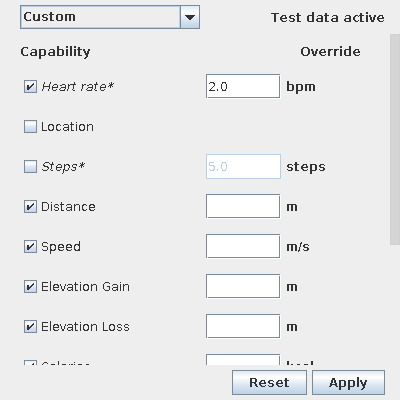
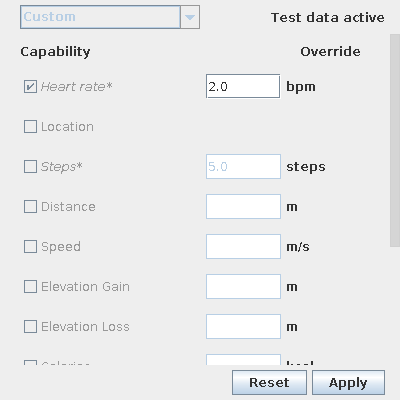
Disable dropdown during active exercise
Bug: 326056944
Test: Unit tests

GitOrigin-RevId: 677e4822b1b97f0de322416045bb717177dae5f6

diff --git a/wear-whs/src/com/android/tools/idea/wearwhs/view/WearHealthServicesToolWindow.kt b/wear-whs/src/com/android/tools/idea/wearwhs/view/WearHealthServicesToolWindow.kt
@@ -125,6 +125,9 @@ internal class WearHealthServicesToolWindow(private val stateManager: WearHealth
       stateManager.preset.onEach {
         capabilitiesComboBox.selectedItem = it
       }.launchIn(uiScope)
+      stateManager.ongoingExercise.onEach {
+        capabilitiesComboBox.isEnabled = !it
+      }.launchIn(uiScope)
       val eventTriggersDropDownButton = CommonDropDownButton(
         CommonAction("", AllIcons.Actions.More).apply {
           toolTipText = message("wear.whs.panel.trigger.events")
@@ -148,7 +151,7 @@ internal class WearHealthServicesToolWindow(private val stateManager: WearHealth
       }, BorderLayout.WEST)
       add(JLabel(message("wear.whs.panel.test.data.inactive")).apply {
         icon = StudioIcons.Common.INFO
-        stateManager.getOngoingExercise().onEach {
+        stateManager.ongoingExercise.onEach {
           if (it) {
             this.text = message("wear.whs.panel.test.data.active")
             this.toolTipText = message("wear.whs.panel.press.apply.for.overrides")
@@ -224,7 +227,7 @@ internal class WearHealthServicesToolWindow(private val stateManager: WearHealth
     val elementsToDisableDuringExercise = mutableListOf<JComponent>()
     // List of elements that should be visible only if there's an active exercise
     val elementsToDisplayDuringExercise = mutableListOf<JComponent>()
-    stateManager.getOngoingExercise().onEach {
+    stateManager.ongoingExercise.onEach {
       elementsToDisableDuringExercise.forEach { element ->
         element.isEnabled = !it
       }

diff --git a/wear-whs/src/com/android/tools/idea/wearwhs/view/WearHealthServicesToolWindowStateManagerImpl.kt b/wear-whs/src/com/android/tools/idea/wearwhs/view/WearHealthServicesToolWindowStateManagerImpl.kt
@@ -57,7 +57,8 @@ internal class WearHealthServicesToolWindowStateManagerImpl(
   private val progress = MutableStateFlow<WhsStateManagerStatus>(WhsStateManagerStatus.Idle)
   private val workerScope = AndroidCoroutineScope(this)
 
-  private val ongoingExercise = MutableStateFlow(false)
+  private val _ongoingExercise = MutableStateFlow(false)
+  override val ongoingExercise = _ongoingExercise
 
   override var serialNumber: String? = null
     set(value) {
@@ -99,7 +100,7 @@ internal class WearHealthServicesToolWindowStateManagerImpl(
       return
     }
     try {
-      ongoingExercise.emit(deviceManager.loadActiveExercise())
+      _ongoingExercise.value = deviceManager.loadActiveExercise()
       val currentStates = deviceManager.loadCurrentCapabilityStates()
       currentStates.forEach { (dataType, state) ->
         // Update values only if they're synced through and got changed in the background
@@ -121,7 +122,6 @@ internal class WearHealthServicesToolWindowStateManagerImpl(
   }
 
   override fun getStatus(): StateFlow<WhsStateManagerStatus> = progress.asStateFlow()
-  override fun getOngoingExercise(): StateFlow<Boolean> = ongoingExercise.asStateFlow()
 
   override suspend fun isWhsVersionSupported(): Boolean {
     return try {

diff --git a/wear-whs/testSrc/com/android/tools/idea/wearwhs/view/WearHealthServicesToolWindowTest.kt b/wear-whs/testSrc/com/android/tools/idea/wearwhs/view/WearHealthServicesToolWindowTest.kt
@@ -26,6 +26,7 @@ import com.android.tools.idea.wearwhs.EVENT_TRIGGER_GROUPS
 import com.android.tools.idea.wearwhs.WHS_CAPABILITIES
 import com.android.tools.idea.wearwhs.communication.FakeDeviceManager
 import com.google.common.truth.Truth.assertThat
+import com.intellij.openapi.ui.ComboBox
 import com.intellij.openapi.util.Disposer
 import com.intellij.testFramework.EdtRule
 import com.intellij.testFramework.RunsInEdt
@@ -183,14 +184,16 @@ class WearHealthServicesToolWindowTest {
   }
 
   @Test
-  fun `test panel disables checkboxes during an exercise`() = runBlocking<Unit> {
+  fun `test panel disables checkboxes and dropdown during an exercise`() = runBlocking<Unit> {
     val fakeUi = FakeUi(toolWindow)
 
+    fakeUi.waitForDescendant<ComboBox<Preset>> { it.isEnabled }
     fakeUi.waitForDescendant<JCheckBox> { it.text.contains("Heart rate") && it.isEnabled }
     fakeUi.waitForDescendant<JCheckBox> { it.text.contains("Steps") && it.isEnabled }
 
     deviceManager.activeExercise = true
 
+    fakeUi.waitForDescendant<ComboBox<Preset>> { !it.isEnabled }
     fakeUi.waitForDescendant<JCheckBox> { it.text.contains("Heart rate") && !it.isEnabled }
     fakeUi.waitForDescendant<JCheckBox> { it.text.contains("Steps") && !it.isEnabled }
   }

diff --git a/wear-whs/testSrc/com/android/tools/idea/wearwhs/view/WearHealthServicesToolWindowStateManagerTest.kt b/wear-whs/testSrc/com/android/tools/idea/wearwhs/view/WearHealthServicesToolWindowStateManagerTest.kt
@@ -240,11 +240,11 @@ class WearHealthServicesToolWindowStateManagerTest {
 
   @Test
   fun `test stateManager periodically updates the exercise status from the device`() = runBlocking {
-    stateManager.getOngoingExercise().waitForValue(false)
+    stateManager.ongoingExercise.waitForValue(false)
     deviceManager.activeExercise = true
 
     // Verify that the value is updated
-    stateManager.getOngoingExercise().waitForValue(true)
+    stateManager.ongoingExercise.waitForValue(true)
   }
 
   private suspend fun <T> Flow<T>.waitForValue(value: T, timeoutSeconds: Long = TEST_MAX_WAIT_TIME_SECONDS) {

diff --git a/wear-whs/src/com/android/tools/idea/wearwhs/view/WearHealthServicesToolWindowStateManager.kt b/wear-whs/src/com/android/tools/idea/wearwhs/view/WearHealthServicesToolWindowStateManager.kt
@@ -81,7 +81,7 @@ internal interface WearHealthServicesToolWindowStateManager {
    * State flow for the ongoing exercise status, emits a single boolean, true if there's an
    * ongoing exercise on the device, false otherwise.
    */
-  fun getOngoingExercise(): StateFlow<Boolean>
+  val ongoingExercise: StateFlow<Boolean>
 
   /**
    * Triggers given event on the device.
